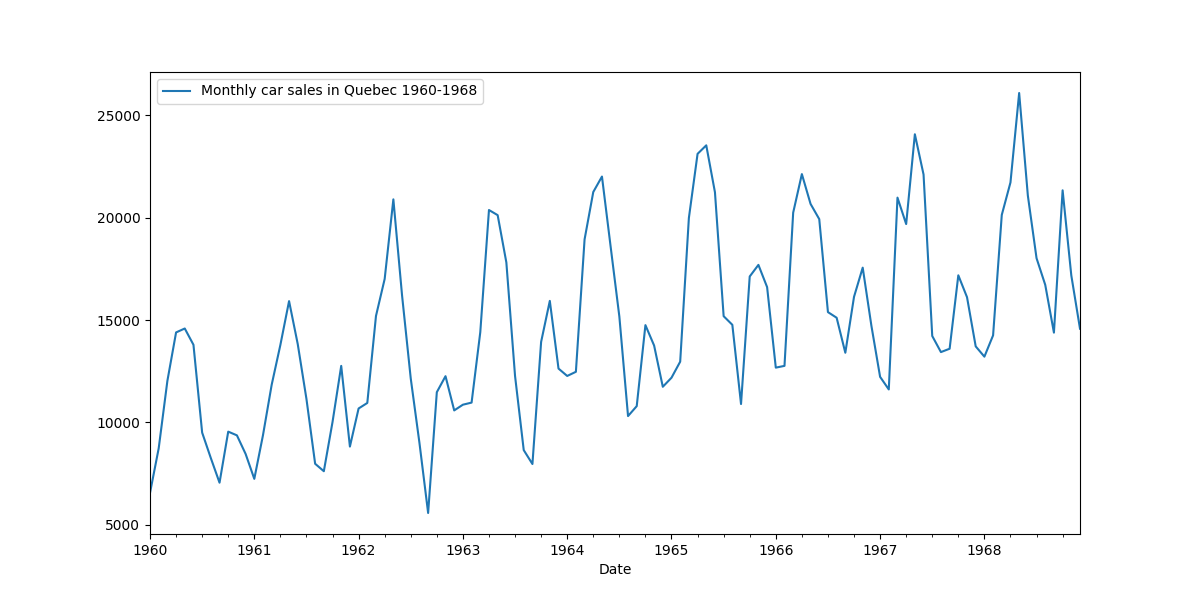
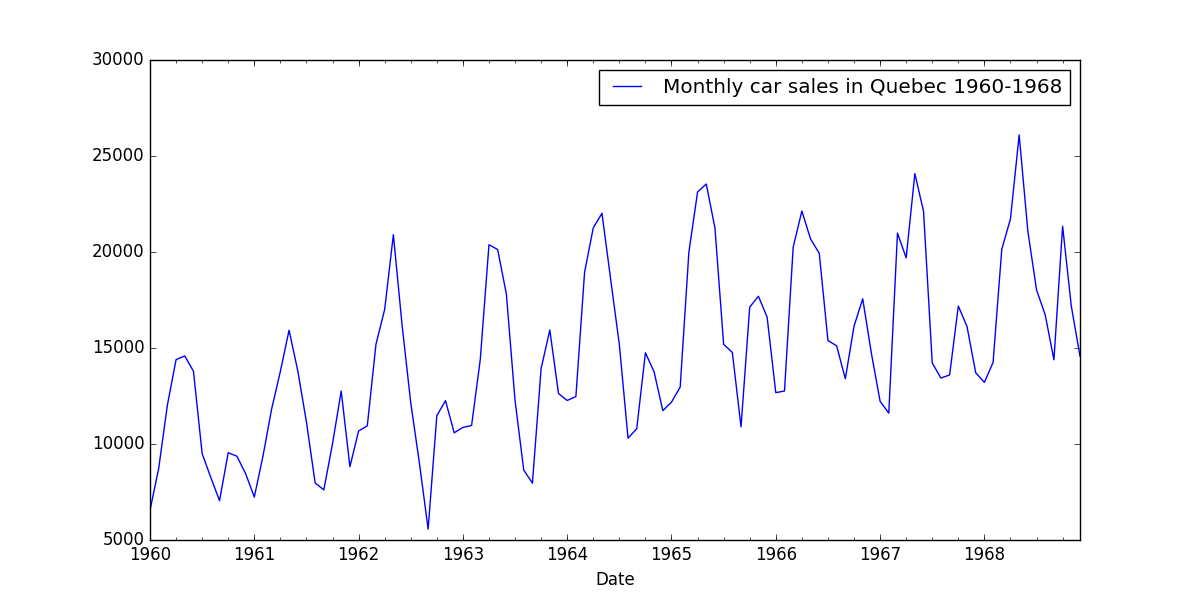
added arrows

diff --git a/prediction/templates/prediction/result.html b/prediction/templates/prediction/result.html
@@ -7,12 +7,32 @@ Time series prediction
 <body>
 Result:
 {% if file_name %}
-{{ file|linebreaks }}
-<img src="{{pic_name}}_origin.png"/>
-<img src="{{pic_name}}_linreg.png"/>
-<img src="{{pic_name}}_isoreg.png"/>
+<img class="mySlides" src="{{pic_name}}_origin.png"/>
+<img class="mySlides" src="{{pic_name}}_linreg.png"/>
+<img class="mySlides" src="{{pic_name}}_isoreg.png"/>
+<button class="w3-button w3-display-left" onclick="plusDivs(-1)">&#10094;</button>
+<button class="w3-button w3-display-right" onclick="plusDivs(+1)">&#10095;</button>
 {% else %}
 <p> No filename! </p>
 {% endif %}
+<script>
+var slideIndex = 1;
+showDivs(slideIndex);
+
+function plusDivs(n) {
+   showDivs(slideIndex += n);
+}
+
+function showDivs(n) {
+    var i;
+    var x = document.getElementsByClassName("mySlides");
+    if (n > x.length) {slideIndex = 1} 
+    if (n < 1) {slideIndex = x.length} ;
+    for (i = 0; i < x.length; i++) {
+        x[i].style.display = "none"; 
+    }
+    x[slideIndex-1].style.display = "block"; 
+ }
+</script>
 </body>
 </html>

diff --git a/prediction/analyze.py b/prediction/analyze.py
@@ -12,7 +12,6 @@ import matplotlib.pyplot as plt
 import os
 from os.path import basename
 
-
 def draw_plot(filename):
     ds = pd.read_csv(filename, index_col=['Date'], parse_dates=['Date'])
     ds.as_matrix()
@@ -32,8 +31,8 @@ def linreg(filename):
 
     X_predict = X  # put the dates of which you want to predict kwh here
     y_predict = model.predict(X_predict.reshape(len(X_predict), 1))
-    fig = plt.figure()
-    plt.plot(y[:len(y)])
+    fig = plt.figure(figsize=(12, 6))
+    plt.plot(y)
     plt.plot(y_predict)
     fig.savefig("files/" + str(os.path.splitext(os.path.basename(filename))[0]) + "_linreg.png")
 
@@ -50,7 +49,7 @@ def isoreg(filename):
 
     X_predict = ds["d"]  # put the dates of which you want to predict kwh here
     y_predict = model.predict(X_predict)
-    fig = plt.figure()
-    plt.plot(y[:len(y)])
+    fig = plt.figure(figsize=(12, 6))
+    plt.plot(y)
     plt.plot(y_predict)
     fig.savefig("files/" + str(os.path.splitext(os.path.basename(filename))[0]) + "_isoreg.png")
